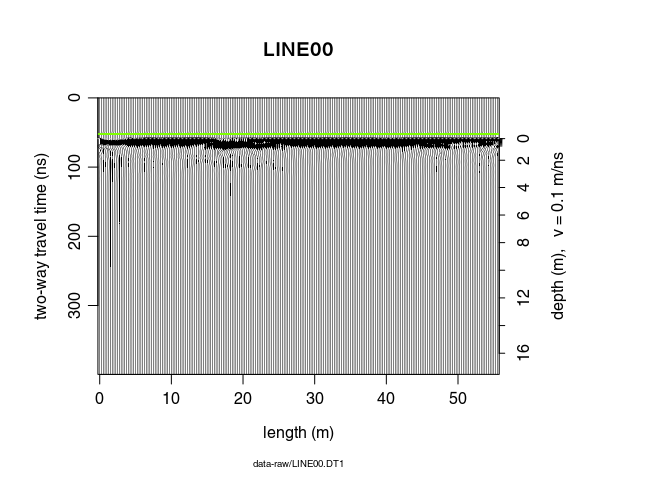
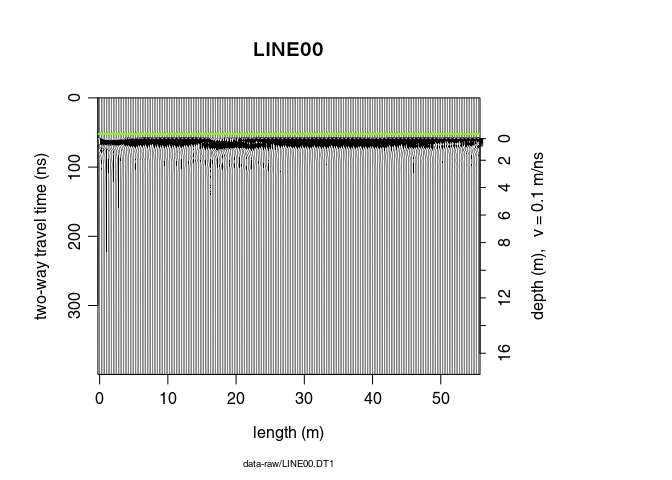
re-run after package update

diff --git a/01_RGPR_tutorial_plot-GPR-data.md b/01_RGPR_tutorial_plot-GPR-data.md
@@ -1,7 +1,7 @@
 ---
 layout: page
 title: Plot GPR data
-date: 2019-09-02
+date: 2019-10-14
 ---
 
 <!--
@@ -20,16 +20,16 @@ Table of Contents
 =================
 
 -   [Objectives of this tutorial](#objectives-of-this-tutorial)
-    -   [Install/load `RGPR`](#install/load-%60rgpr%60)
+    -   [Install/load `RGPR`](#installload-rgpr)
     -   [The GPR data](#the-gpr-data)
 -   [Plot the GPR data](#plot-the-gpr-data)
-    -   [D plot: radargramm](#d-plot:-radargramm)
-    -   [D plot](#d-plot)
+    -   [Two-dimensional plot: radargramm](#two-dimensional-plot-radargramm)
+    -   [One-dimensional plot](#one-dimensional-plot)
         -   [Single trace plot](#single-trace-plot)
         -   [Multiple trace plot](#multiple-trace-plot)
     -   [Frequency plots](#frequency-plots)
-        -   [Frequency/Phase-Amplitude (1D)](#frequency/phase-amplitude-(1d))
-    -   [Frequency-wavenumber filter (f-k-filter)](#frequency-wavenumber-filter-(f-k-filter))
+        -   [Frequency/Phase-Amplitude (1D)](#frequencyphase-amplitude-1d)
+    -   [Frequency-wavenumber filter (f-k-filter)](#frequency-wavenumber-filter-f-k-filter)
     -   [More infos](#more-infos)
 
 Objectives of this tutorial
@@ -44,6 +44,59 @@ Install/load `RGPR`
 # install "devtools" if not already done
 if(!require("devtools")) install.packages("devtools")
 devtools::install_github("emanuelhuber/RGPR")
+```
+
+    ## backports   (1.1.4   -> 1.1.5) [CRAN]
+    ## callr       (3.3.1   -> 3.3.2) [CRAN]
+    ## curl        (4.0     -> 4.2) [CRAN]
+    ## digest      (0.6.20  -> 0.6.21) [CRAN]
+    ## ellipsis    (0.2.0.1 -> 0.3.0) [CRAN]
+    ## fields      (9.8-6   -> 9.9) [CRAN]
+    ## htmltools   (0.3.6   -> 0.4.0) [CRAN]
+    ## htmlwidgets (1.3     -> 1.5.1) [CRAN]
+    ## httpuv      (1.5.1   -> 1.5.2) [CRAN]
+    ## knitr       (1.24    -> 1.25) [CRAN]
+    ## later       (0.8.0   -> 1.0.0) [CRAN]
+    ## pkgconfig   (2.0.2   -> 2.0.3) [CRAN]
+    ## promises    (1.0.1   -> 1.1.0) [CRAN]
+    ## raster      (3.0-2   -> 3.0-7) [CRAN]
+    ## rgdal       (1.4-4   -> 1.4-6) [CRAN]
+    ## rgeos       (0.5-1   -> 0.5-2) [CRAN]
+    ## sf          (0.7-7   -> 0.8-0) [CRAN]
+    ## shiny       (1.3.2   -> 1.4.0) [CRAN]
+    ## spam        (2.2-2   -> 2.3-0) [CRAN]
+    ## units       (0.6-4   -> 0.6-5) [CRAN]
+    ## xfun        (0.9     -> 0.10) [CRAN]
+    ##
+       checking for file ‘/tmp/RtmpsEzAgK/remotes43cd336a7bc9/emanuelhuber-RGPR-d06e059/DESCRIPTION’...
+
+    ✔  checking for file ‘/tmp/RtmpsEzAgK/remotes43cd336a7bc9/emanuelhuber-RGPR-d06e059/DESCRIPTION’
+    ##
+
+    ─  preparing ‘RGPR’:
+    ##
+
+       checking DESCRIPTION meta-information...
+
+    ✔  checking DESCRIPTION meta-information
+    ##
+
+    ─  checking for LF line-endings in source and make files and shell scripts
+    ##
+
+    ─  checking for empty or unneeded directories
+    ##
+
+    ─  looking to see if a ‘data/datalist’ file should be added
+    ##
+
+    ─  building ‘RGPR_0.0.6.tar.gz’
+    ##
+
+
+    ##
+
+``` r
 library(RGPR)       # load RGPR in the current R session
 ```
 
@@ -70,8 +123,8 @@ x
 Plot the GPR data
 =================
 
-2D plot: radargramm
--------------------
+Two-dimensional plot: radargramm
+--------------------------------
 
 To plot the GPR record as a raster image (default mode), enter
 
@@ -172,8 +225,8 @@ plot(x, note = "", main = "", ylab = "", xlab = "", clab = "")
 
 ![](01_RGPR_tutorial_plot-GPR-data_tp_files/figure-markdown_github/withoutlabels-1.png)
 
-1D plot
--------
+One-dimensional plot
+--------------------
 
 ### Single trace plot
 
@@ -223,6 +276,8 @@ lines(traceStat(x), lwd = "2", col = "red")
 ```
 
 ![plot multiple traces with average trace](01_RGPR_tutorial_plot-GPR-data_tp_files/figure-markdown_github/plot_multi_1D_average-1.png)
+
+    ## [1] 22
 
 Frequency plots
 ---------------

diff --git a/00_RGPR_tutorial_import-GPR-data.md b/00_RGPR_tutorial_import-GPR-data.md
@@ -1,7 +1,7 @@
 ---
 layout: page
 title: Import GPR data
-date: 2019-09-06
+date: 2019-10-14
 ---
 
 <!--
